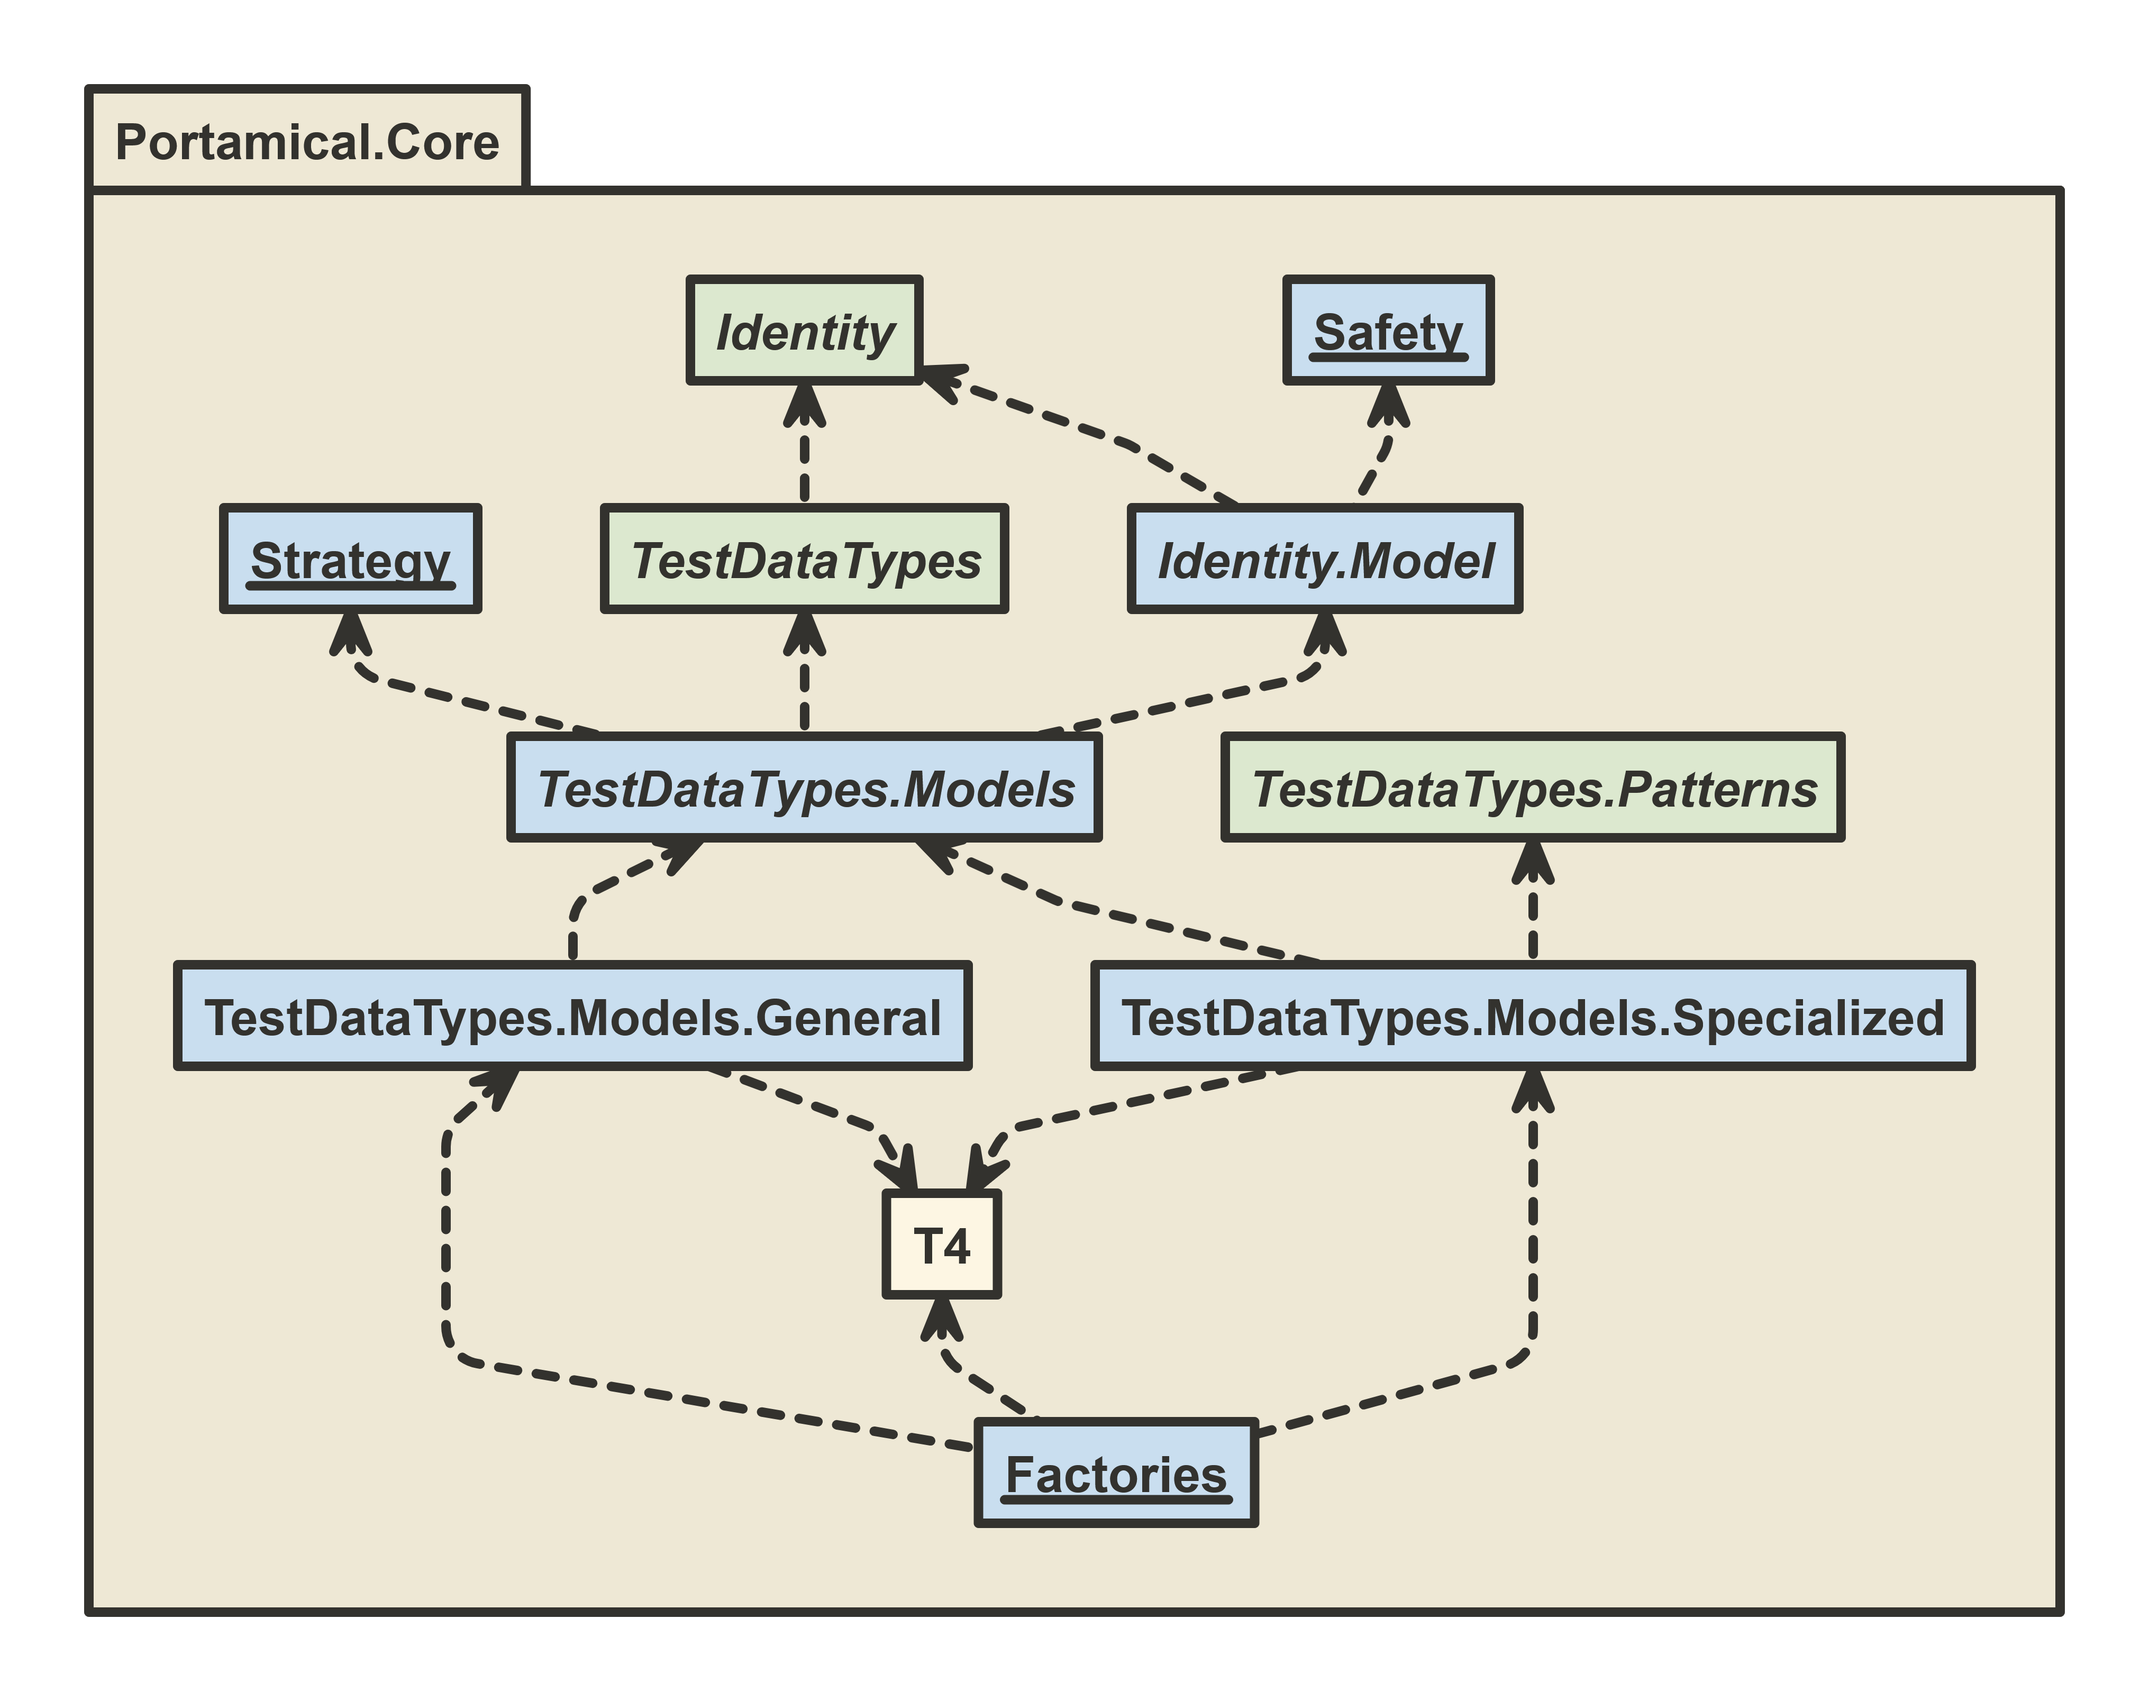
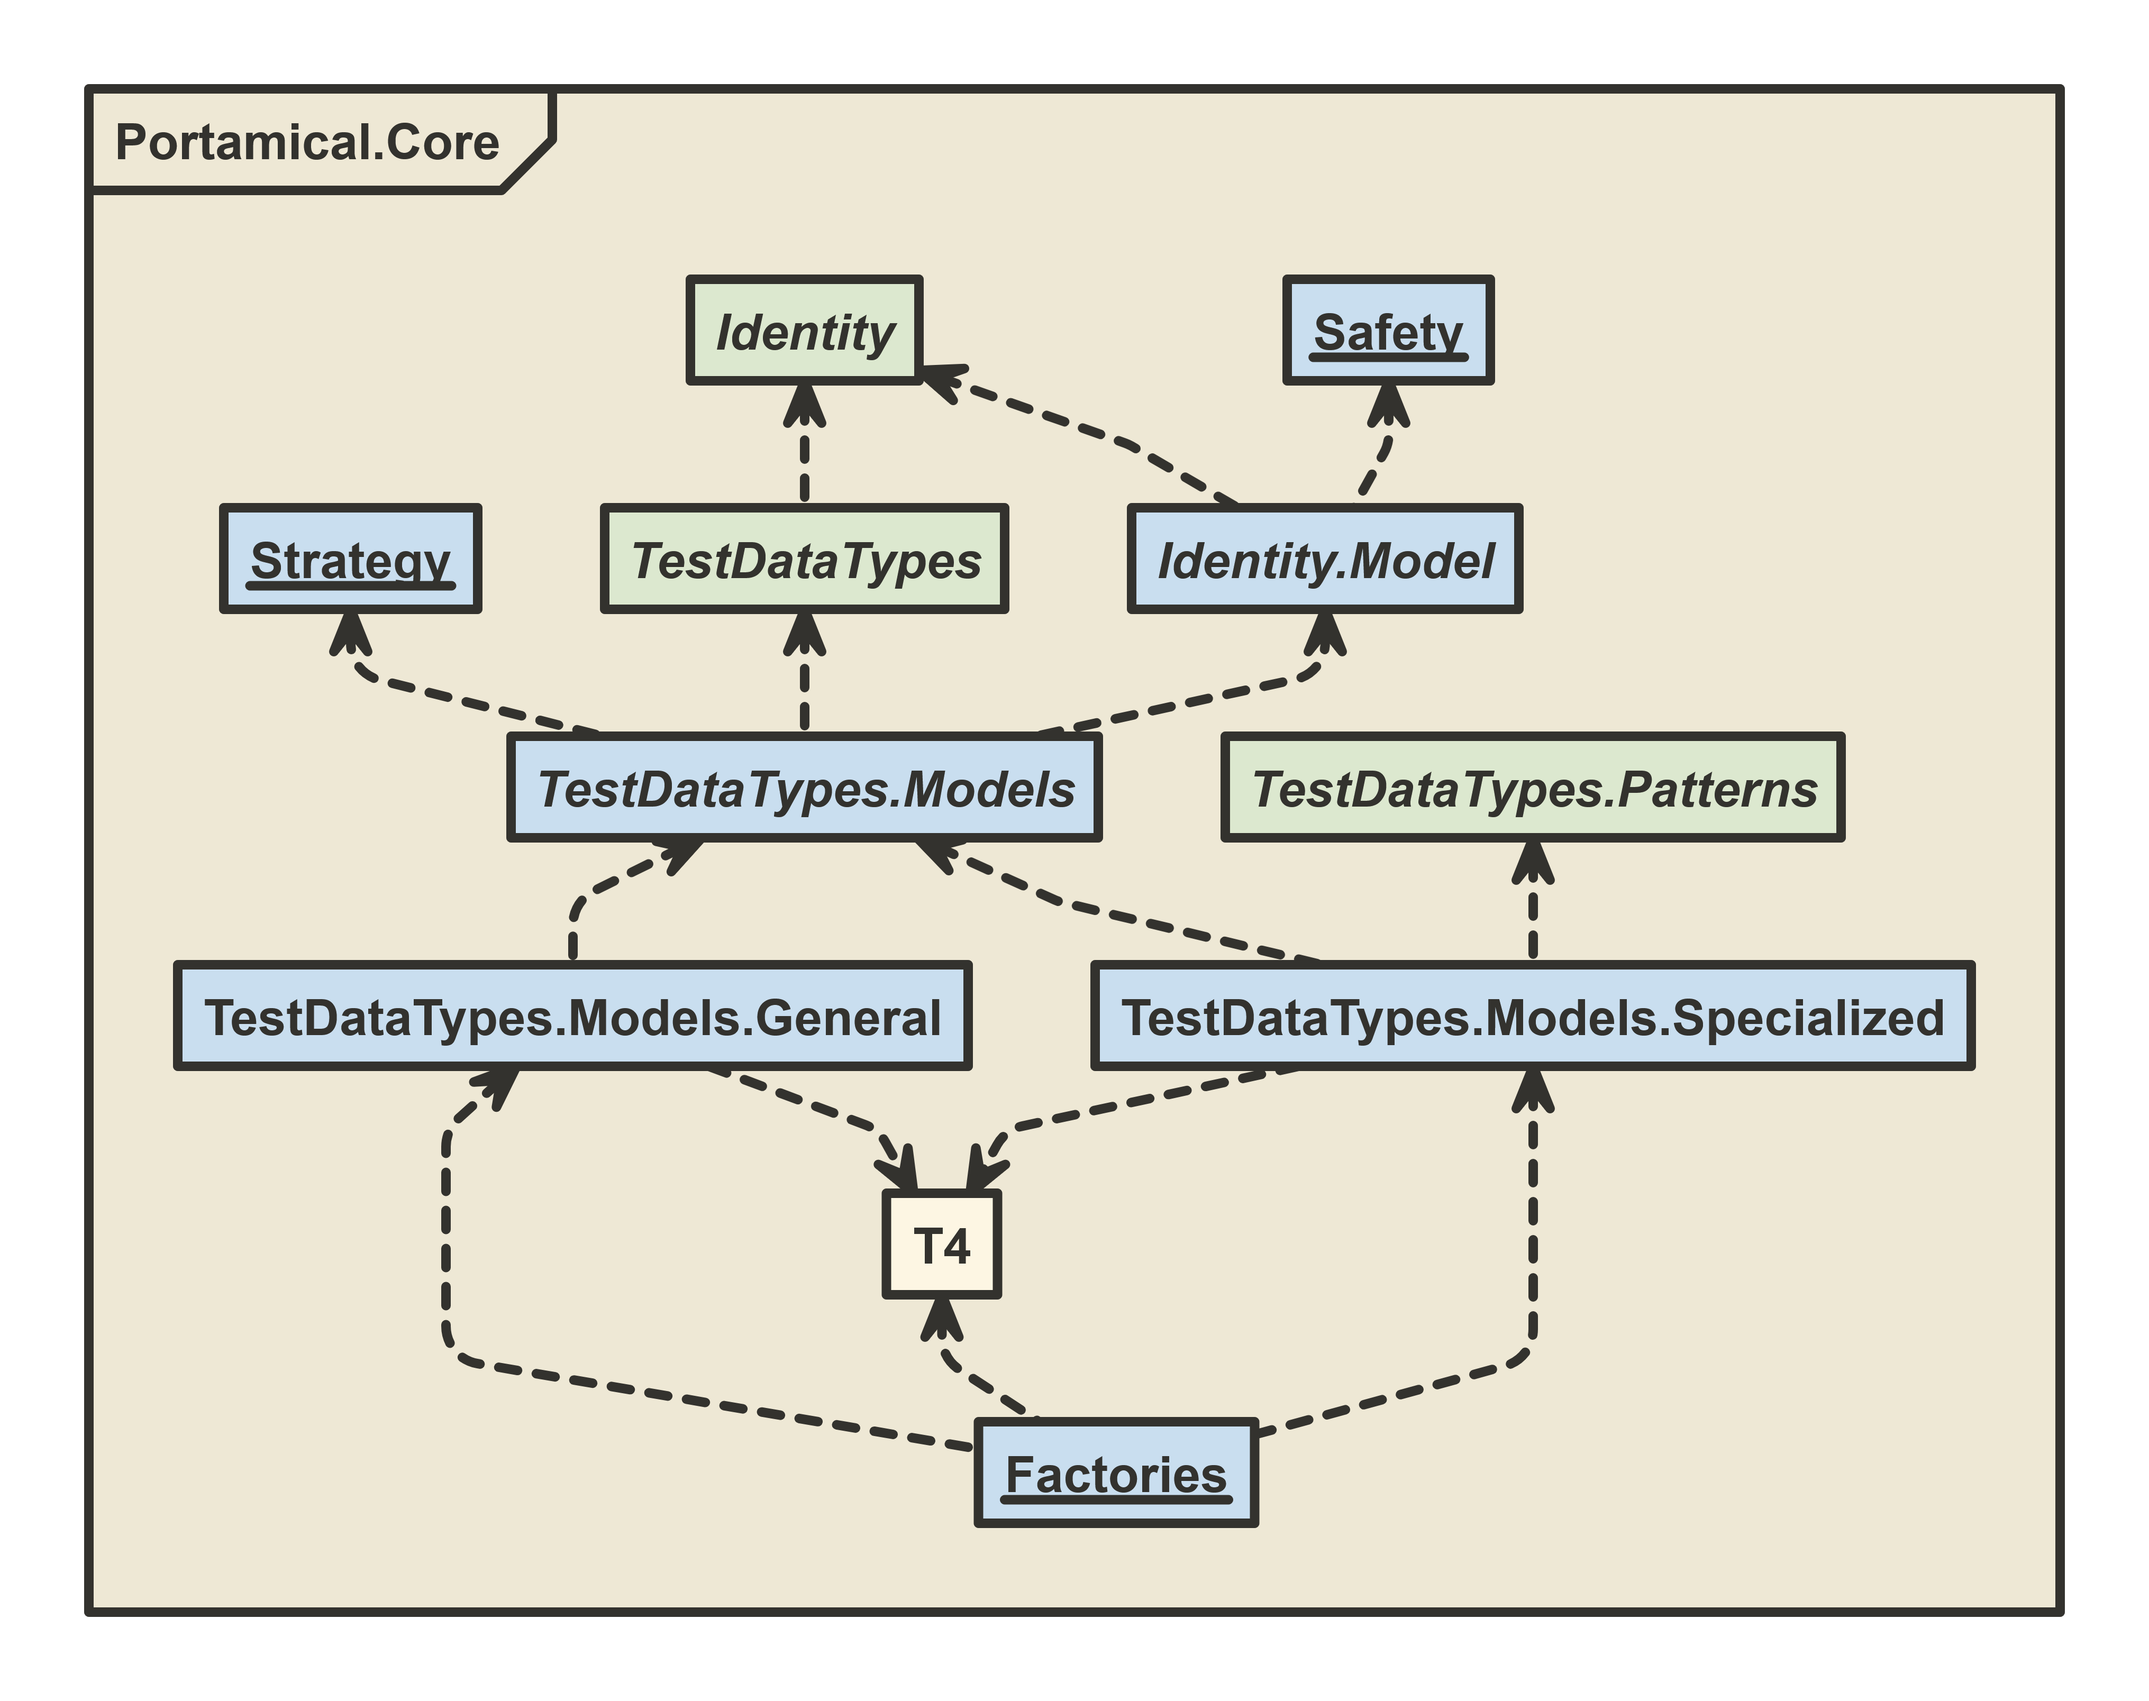
test minor refactors

Changed region(s): [[0.2171, 0.0311, 0.9616, 0.1244]]

diff --git a/_Tests/Portamical.Core/Factories/TestDataFactoryTests.cs b/_Tests/Portamical.Core/Factories/TestDataFactoryTests.cs
@@ -116,8 +116,8 @@ public class TestDataFactoryTests
     public void createTestDataThrows_calledTwice_withSameArgs_returnsDifferentInstances()
     {
         var ex = new InvalidOperationException();
-        var a = TestDataFactory.CreateTestDataThrows<InvalidOperationException, int>(Def, ex, 1);
-        var b = TestDataFactory.CreateTestDataThrows<InvalidOperationException, int>(Def, ex, 1);
+        var a = TestDataFactory.CreateTestDataThrows(Def, ex, 1);
+        var b = TestDataFactory.CreateTestDataThrows(Def, ex, 1);
         Assert.AreNotSame(a, b);
     }
     #endregion
@@ -127,9 +127,9 @@ public class TestDataFactoryTests
     public void createTestDataThrows_withArgumentException_setsExpectedAndTestCaseName()
     {
         var ex = new ArgumentException("bad value");
-        var sut = TestDataFactory.CreateTestDataThrows<ArgumentException, int>(Def, ex, 1);
+        var sut = TestDataFactory.CreateTestDataThrows(Def, ex, 1);
         Assert.IsInstanceOfType<TestDataThrows<ArgumentException, int>>(sut);
-        Assert.AreSame(ex, sut.Expected);
+        Assert.AreSame(sut.Expected, ex);
         Assert.AreEqual($"{Def} => throws ArgumentException", sut.TestCaseName);
     }
 
@@ -138,7 +138,7 @@ public class TestDataFactoryTests
     {
         // ArgumentNullException is a subtype of ArgumentException — type name used, not base
         var ex = new ArgumentNullException("param");
-        var sut = TestDataFactory.CreateTestDataThrows<ArgumentNullException, int>(Def, ex, 1);
+        var sut = TestDataFactory.CreateTestDataThrows(Def, ex, 1);
         Assert.AreEqual($"{Def} => throws ArgumentNullException", sut.TestCaseName);
     }
     #endregion

diff --git a/_Tests/Portamical.Core/Safety/EnumValidatorTests.cs b/_Tests/Portamical.Core/Safety/EnumValidatorTests.cs
@@ -29,7 +29,7 @@ public sealed class EnumValidatorTests
 
         var ex = invalidValue.GetInvalidEnumArgumentException(nameof(invalidValue));
 
-        StringAssert.Contains(ex.Message, "99");
+        Assert.Contains("99", ex.Message);
     }
 
     [TestMethod]
@@ -39,7 +39,7 @@ public sealed class EnumValidatorTests
 
         var ex = invalidValue.GetInvalidEnumArgumentException(nameof(invalidValue));
 
-        StringAssert.Contains(ex.Message, nameof(DayOfWeek));
+        Assert.Contains(nameof(DayOfWeek), ex.Message);
     }
 
     // Defined
@@ -83,6 +83,6 @@ public sealed class EnumValidatorTests
         var ex = Assert.ThrowsExactly<InvalidEnumArgumentException>(
             () => invalid.Defined(nameof(invalid)));
 
-        StringAssert.Contains(ex.Message, "999");
+        Assert.Contains("999", ex.Message);
     }
 }

diff --git a/_Tests/Portamical.Core/Safety/ResolverTests.cs b/_Tests/Portamical.Core/Safety/ResolverTests.cs
@@ -26,7 +26,7 @@ public sealed class ResolverTests
     {
         var result = "Fallback".FallbackIfNullOrWhiteSpace(null, "GetName");
 
-        StringAssert.StartsWith(result, "Fallback (");
+        Assert.StartsWith("Fallback (", result);
     }
 
     [TestMethod]
@@ -34,7 +34,7 @@ public sealed class ResolverTests
     {
         var result = "Fallback".FallbackIfNullOrWhiteSpace(string.Empty, "GetName");
 
-        StringAssert.StartsWith(result, "Fallback (");
+        Assert.StartsWith("Fallback (", result);
     }
 
     [TestMethod]
@@ -42,7 +42,7 @@ public sealed class ResolverTests
     {
         var result = "Fallback".FallbackIfNullOrWhiteSpace("   ", "GetName");
 
-        StringAssert.StartsWith(result, "Fallback (");
+        Assert.StartsWith("Fallback (", result);
     }
 
     [TestMethod]

diff --git a/_Tests/Portamical.Core/Identity/NamedCaseTests.cs b/_Tests/Portamical.Core/Identity/NamedCaseTests.cs
@@ -444,11 +444,11 @@ public sealed class NamedCaseTests
     public void Contains_nonArrayEnumerable_worksCorrectly()
     {
         var namedCase = Case("test => passes");
-        IEnumerable<INamedCase> collection = new List<INamedCase>
-        {
+        IEnumerable<INamedCase> collection =
+        [
             Case("other => fails"),
             Case("test => passes"),
-        };
+        ];
 
         Assert.IsTrue(NamedCase.Contains(namedCase, collection));
     }
